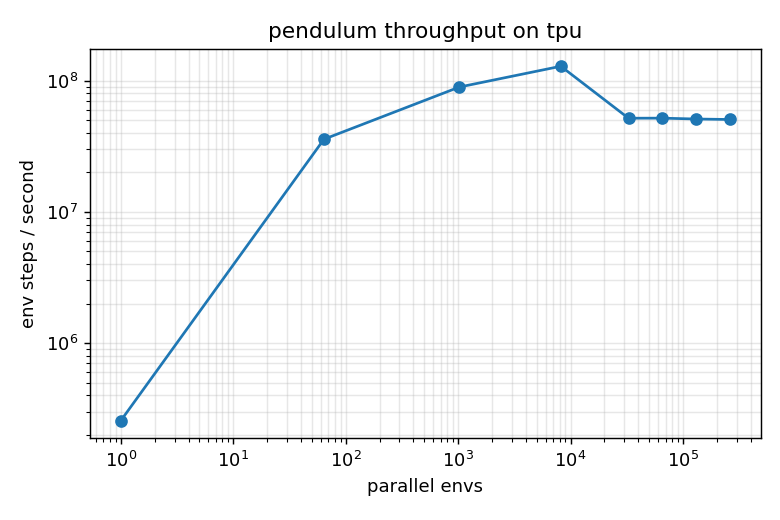
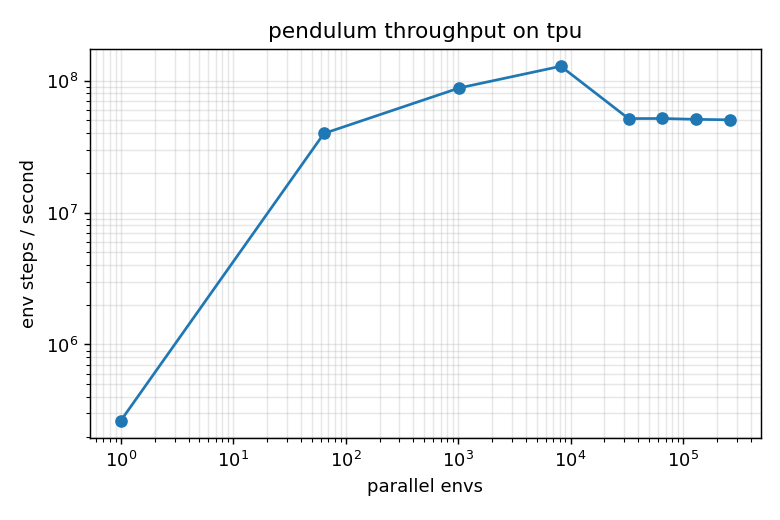
Add TPU results (TPU v5 lite): throughput, drone, pendulum seed studies

diff --git a/README.md b/README.md
@@ -103,18 +103,18 @@ The outcome is mostly decided by the seed, not by the hyperparameters, so a swee
 
 _Generated by `colab_run.py --tpu` on 2026-11-25. Raw data in [`results/tpu/`](results/tpu/)._
 
-**Throughput.** Peak TPU throughput was **290,051,687 env-steps/s at 8,192 parallel envs**.
+**Throughput.** Peak TPU throughput was **290,205,014 env-steps/s at 8,192 parallel envs**.
 
 | Parallel envs | TPU env-steps/s | T4 GPU env-steps/s | CPU env-steps/s | TPU / CPU |
 | ---: | ---: | ---: | ---: | ---: |
-| 1 | 35,591 | 24,954 | 94,338 | 0.4x |
-| 64 | 28,227,656 | 1,424,239 | 334,636 | 84.4x |
-| 1,024 | 199,937,520 | 8,512,947 | 707,976 | 282.4x |
-| 8,192 | 290,051,687 | 14,411,090 | 519,097 | 558.8x |
-| 32,768 | 45,600,793 | 15,013,070 | 438,103 | 104.1x |
-| 65,536 | 45,498,979 | 15,109,264 | 440,727 | 103.2x |
-| 131,072 | 39,519,897 | – | – | – |
-| 262,144 | 37,060,358 | – | – | – |
+| 1 | 35,519 | 24,954 | 94,338 | 0.4x |
+| 64 | 28,004,586 | 1,424,239 | 334,636 | 83.7x |
+| 1,024 | 197,205,232 | 8,512,947 | 707,976 | 278.5x |
+| 8,192 | 290,205,014 | 14,411,090 | 519,097 | 559.1x |
+| 32,768 | 45,580,148 | 15,013,070 | 438,103 | 104.0x |
+| 65,536 | 45,493,849 | 15,109,264 | 440,727 | 103.2x |
+| 131,072 | 39,519,716 | – | – | – |
+| 262,144 | 37,062,050 | – | – | – |
 
 ![throughput CPU vs GPU vs TPU](results/tpu/throughput_all.png)
 
